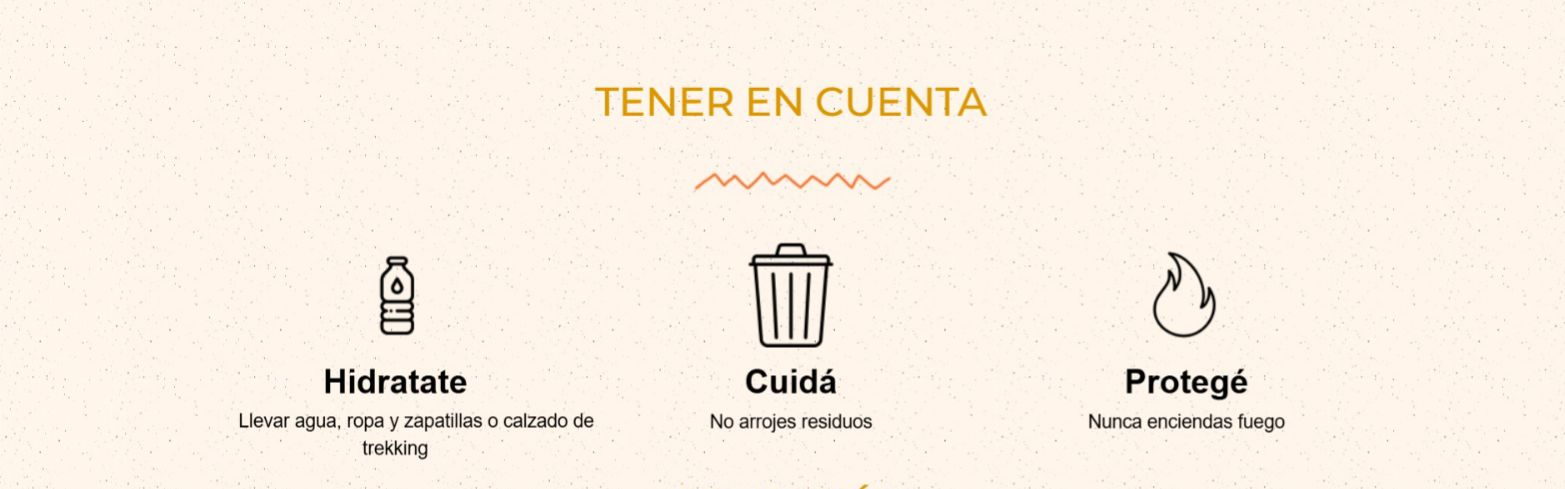
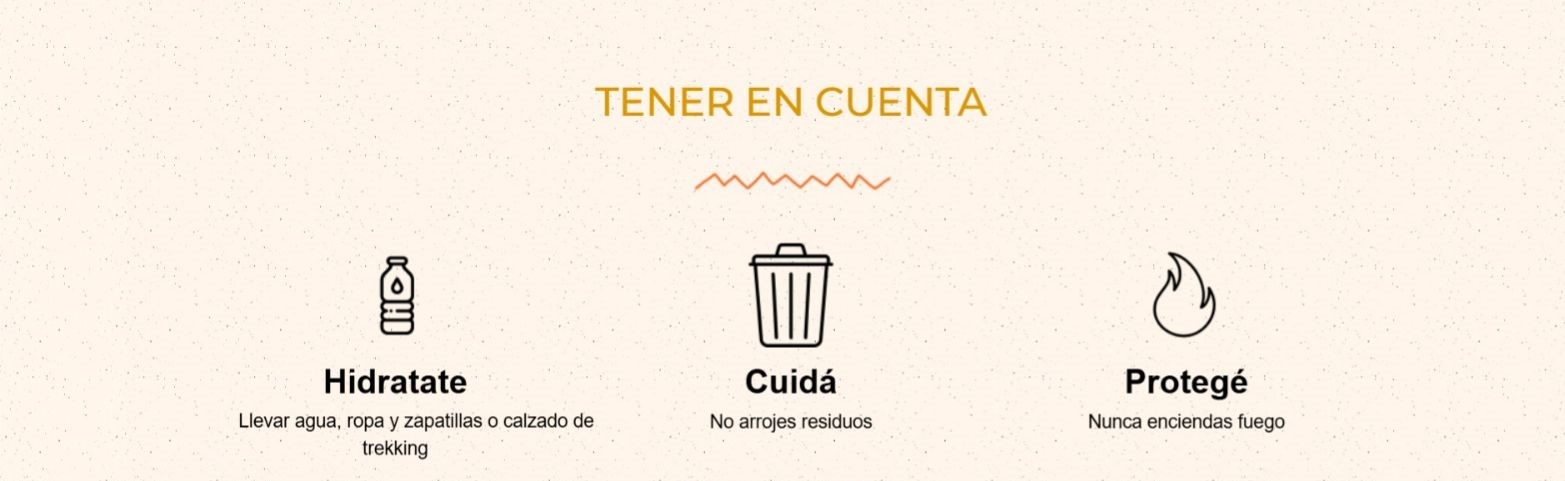
primer commit

diff --git a/index.html b/index.html
@@ -25,7 +25,7 @@
           <img src="imagenes/carrusel3.jfif" class="d-block w-100" alt="...">
         </div>
         <div class="carousel-item">
-          <img src="imagenes/carrusel4.jfif" class="d-block w-100" alt="...">
+          <img src="imagenes/Captura de pantalla (1).png" class="d-block w-100" alt="...">
         </div>
       </div>
       <button class="carousel-control-prev" type="button" data-bs-target="#carouselExample" data-bs-slide="prev">
